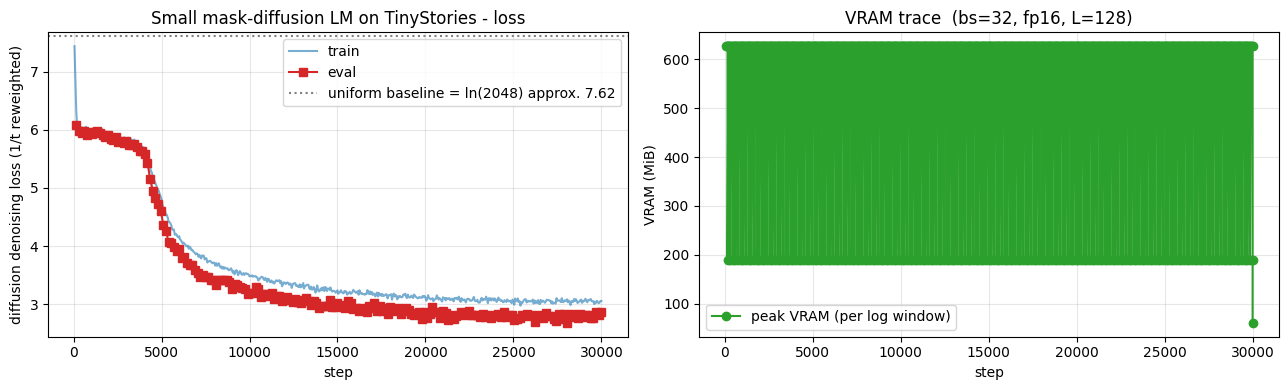
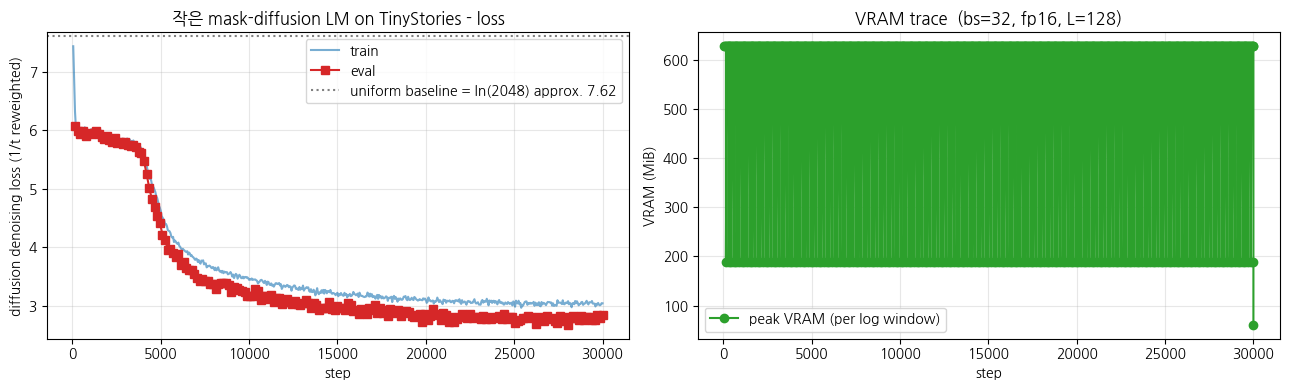
Ch 32 WikiDocs 변환 — executed 한글 plot 재생성
Claude-Session: https://claude.ai/code/session_01WacYaM89hZLnSLh4o6sjrA

diff --git a/pages/32-diffusion_intro-practice.md b/pages/32-diffusion_intro-practice.md
@@ -9,13 +9,14 @@
 **▶ 실행 결과**
 
 ```text
-   ━━━━━━━━━━━━━━━━━━━━━━━━━━━━━━━━━━━━━━━━ 11.2/11.2 MB 118.2 MB/s eta 0:00:00
-   ━━━━━━━━━━━━━━━━━━━━━━━━━━━━━━━━━━━━━━━━ 555.1/555.1 kB 48.3 MB/s eta 0:00:00
-   ━━━━━━━━━━━━━━━━━━━━━━━━━━━━━━━━━━━━━━━━ 389.2/389.2 kB 39.2 MB/s eta 0:00:00
-   ━━━━━━━━━━━━━━━━━━━━━━━━━━━━╺━━━━━━━━━━━ 34.4/48.9 MB 261.0 MB/s eta 0:00:01
-   ━━━━━━━━━━━━━━━━━━━━━━━━━━━━━━━━━━━━━━━╸ 48.9/48.9 MB 148.9 MB/s eta 0:00:01
-   ━━━━━━━━━━━━━━━━━━━━━━━━━━━━━━━━━━━━━━━╸ 48.9/48.9 MB 148.9 MB/s eta 0:00:01
-   ━━━━━━━━━━━━━━━━━━━━━━━━━━━━━━━━━━━━━━━━ 48.9/48.9 MB 16.8 MB/s eta 0:00:00
+   ━━━━━━━━━━━━━━━━━━━━━━━━━━━━━━━━━━━━━━━━ 11.2/11.2 MB 104.2 MB/s eta 0:00:00
+   ━━━━━━━━━━━━━━━━━━━━━━━━━━━━━━━━━━━━━━━━ 555.1/555.1 kB 47.1 MB/s eta 0:00:00
+   ━━━━━━━━━━━━━━━━━━━━━━━━━━━━━━━━━━━━━━━━ 389.2/389.2 kB 39.4 MB/s eta 0:00:00
+   ━━━━━━╺━━━━━━━━━━━━━━━━━━━━━━━━━━━━━━━━━ 7.5/48.9 MB 226.8 MB/s eta 0:00:01
+   ━━━━━━━━━━━━━━━━━━━━━━━━━━━━━━━━━━╸━━━━━ 42.8/48.9 MB 172.2 MB/s eta 0:00:01
+   ━━━━━━━━━━━━━━━━━━━━━━━━━━━━━━━━━━━━━━━╸ 48.9/48.9 MB 160.7 MB/s eta 0:00:01
+   ━━━━━━━━━━━━━━━━━━━━━━━━━━━━━━━━━━━━━━━╸ 48.9/48.9 MB 160.7 MB/s eta 0:00:01
+   ━━━━━━━━━━━━━━━━━━━━━━━━━━━━━━━━━━━━━━━━ 48.9/48.9 MB 17.5 MB/s eta 0:00:00
 ```
 
 ```python
@@ -59,6 +60,15 @@ random.seed(SEED)
 # fp16 은 CUDA 에서만 (MPS 는 미지원, CPU 는 의미 없음)
 USE_FP16 = (device.type == "cuda")
 print(f"use fp16   : {USE_FP16}")
+
+# matplotlib 한글 폰트 (Colab — NanumGothic). plot 의 한국어가 □ 로 깨지지 않게.
+import matplotlib.pyplot as plt, matplotlib.font_manager as fm, subprocess, os
+_fp = "/usr/share/fonts/truetype/nanum/NanumGothic.ttf"
+if not os.path.exists(_fp):
+    subprocess.run("apt-get -qq -y install fonts-nanum", shell=True)
+fm.fontManager.addfont(_fp)
+plt.rcParams["font.family"] = "NanumGothic"
+plt.rcParams["axes.unicode_minus"] = False
 ```
 
 **▶ 실행 결과**
@@ -455,9 +465,9 @@ if torch.cuda.is_available():
 ```text
 <IPython.core.display.HTML object>
 === training summary ===
-elapsed       : 18.92 min
+elapsed       : 18.36 min
 global_step   : 30000
-train_loss    : 3.7148
+train_loss    : 3.6868
 random baseline (ln vocab): 7.6246
 final peak    : 61 MiB
 ```
@@ -478,7 +488,7 @@ if eval_pts:
 ax1.axhline(math.log(tokenizer.vocab_size), ls=":", color="gray",
             label=f"uniform baseline = ln({tokenizer.vocab_size}) approx. {math.log(tokenizer.vocab_size):.2f}")
 ax1.set_xlabel("step"); ax1.set_ylabel("diffusion denoising loss (1/t reweighted)")
-ax1.set_title("Small mask-diffusion LM on TinyStories - loss")
+ax1.set_title("작은 mask-diffusion LM on TinyStories - loss")
 ax1.grid(True, alpha=0.3); ax1.legend()
 
 if vram_cb.steps:
@@ -486,9 +496,9 @@ if vram_cb.steps:
              label="peak VRAM (per log window)")
     ax2.set_title(f"VRAM trace  (bs=32, fp16, L={BLOCK_SIZE})")
 else:
-    ax2.text(0.5, 0.5, "VRAM trace available on CUDA only",
+    ax2.text(0.5, 0.5, "VRAM trace 는 CUDA 에서만 제공",
              ha="center", va="center", transform=ax2.transAxes)
-    ax2.set_title("VRAM trace - CUDA only")
+    ax2.set_title("VRAM trace - CUDA 에서만")
 ax2.set_xlabel("step"); ax2.set_ylabel("VRAM (MiB)")
 ax2.grid(True, alpha=0.3); ax2.legend()
 
@@ -516,19 +526,17 @@ for i in range(3):
 TRAINED model - parallel denoise from all-[MASK]
 ======================================================================
 
-[sample 0]  Ben are twins. They run to the park. They run to slide and run. They want to reach the park. They see the big slide. They see the noise. They
+[sample 0]  and go in their house. Sam are scared. They want to play Tim and Mia. They want to climb it.
 
-They and Ben are happy. They are happy.
+"See, Sam, Sam, Sam!" Tom says.
 
-[sample 1] 
-"OK, Ben. We will play the balloon," Ben says.
+"Oh you!" Tom and Sam
+[sample 1]  him angry. He did not like the boy. He did not listen. He. He was scared and angry. He did not care.
 
-"We can play the park!" Ben says..
+The boy was very sad. He. He wanted to help the boy. He did not
 
-They run to the park. They. They seek in the park. They
-They
-[sample 2] . They understand. They are happy. They
-TheyThey see the park again. They They see the dog. They are not happy in the park. They hug their mom. They back to the park. They are very happy. They
+[sample 2] . They are good other and hug. They
+They are happy. They. They smile. They hug each other. They hug each other. They are friends.. They They are best friends. They are happy. They hug. Mom
 ```
 
 ```python
@@ -564,19 +572,18 @@ step  0/11  ([MASK] remaining: 37)
   ____ ____ ____ ____ ____ ____ ____ ____ ____ . ____ ____ ____ ____ Ġand ____ ____ ____ ____ ____ ____ ____ ____ . ____ ____ ____ ____ ____ …(뒤 55자 생략)
 
 step  3/11  ([MASK] remaining: 27)
-  Ġand ____ ____ ____ ____ ____ ____ ____ ____ . ĠThey ____ Ġto ____ Ġand ____ ____ ____ ____ ____ ____ ____ ____ . Ċ Ċ They ____ ____ Ġto Ġ …(뒤 45자 생략)
+  Ċ They Ġand ____ ____ ____ ____ ____ ____ . ĠThey Ġlikes Ġto ____ Ġand ____ ____ ____ ____ ____ ____ ____ ____ . ĠThey ____ ____ ____ ____ …(뒤 53자 생략)
 
 step  6/11  ([MASK] remaining: 17)
-  Ġand ____ . . ĠThey ____ ____ Ġthe ____ . ĠThey ____ Ġto ____ Ġand ____ . . ĠThey ____ ____ ____ ____ . Ċ Ċ They ____ Ġback Ġto Ġthe Ġand …(뒤 37자 생략)
+  Ċ They Ġand ____ . ĠThey ____ ____ ____ . ĠThey Ġlikes Ġto Ġplay Ġand Ġplay . . ĠThey ____ ____ ____ ____ . ĠThey ____ ____ ____ ____ . __ …(뒤 43자 생략)
 
 step  9/11  ([MASK] remaining:  7)
-  Ġand ____ . . ĠThey Ġrun Ġto Ġthe Ġpark . ĠThey ____ Ġto ____ Ġand Ġrun . . ĠThey ____ ____ Ġand Ġfun . Ċ Ċ They Ġgo Ġback Ġto Ġthe Ġand _ …(뒤 36자 생략)
+  Ċ They Ġand Ġsmile . ĠThey ____ ____ ____ . ĠThey Ġlikes Ġto Ġplay Ġand Ġplay . . ĠThey ____ ____ Ġand Ġball . ĠThey Ġrun Ġafter Ġthe Ġbal …(뒤 54자 생략)
 
 step 11/11  ([MASK] remaining:  0)
-  Ġand Ġrun . . ĠThey Ġrun Ġto Ġthe Ġpark . ĠThey Ġwant Ġto Ġswing Ġand Ġrun . . ĠThey Ġhave Ġfun Ġand Ġfun . Ċ Ċ They Ġgo Ġback Ġto Ġthe Ġa …(뒤 43자 생략)
+  Ċ They Ġand Ġsmile . ĠThey Ġplay Ġtogether Ġit . ĠThey Ġlikes Ġto Ġplay Ġand Ġplay . . ĠThey Ġmake Ġball Ġand Ġball . ĠThey Ġrun Ġafter Ġt …(뒤 62자 생략)
 
 ==============================================================================
-FINAL:  and run.. They run to the park. They want to swing and run.. They have fun and fun.
-
-They go back to the and slide. They say they are to stop
+FINAL: 
+They and smile. They play together it. They likes to play and play.. They make ball and ball. They run after the ball. Spot and hug. They are good friends. They
 ```

diff --git a/pages/32-diffusion_intro-variation.md b/pages/32-diffusion_intro-variation.md
@@ -20,9 +20,10 @@ for i in range(3):
 prompt (fixed): Once upon a time
 ======================================================================
 
-[sample 0]  Once upon a time, there was a little girl named Lily. She loved to play outside and her moms. Lily. One day, Lily's to play with …(뒤 57자 생략)
-[sample 1]  Once upon a time, there was a little girl named Lilyie. She loved to wear her her favorite dress. One day, she went to the park …(뒤 83자 생략)
-[sample 2]  Once upon a time, there was a little girl named Lily. She loved to share her toys and play with her friends. One day, she went t …(뒤 87자 생략)
+[sample 0]  Once upon a time, there was a little girl named Lily. She loved to play with her with her toys. One day, she went to to play wit …(뒤 74자 생략)
+[sample 1]  Once upon a time, there a a little girl named Lily. She loved to play with her toys every toys. One day, Lily went her park to p …(뒤 65자 생략)
+
+[sample 2]  Once upon a time, there was a little girl named Lily. She was very happy and loved to play with her friends. One day, Lily's fri …(뒤 81자 생략)
 ```
 
 **관전 포인트** - 앞 토큰들이 고정된 채 뒤가 채워집니다. 단, diffusion 은 *양방향* 이라 GPT 와 달리 *prompt 앞이나 중간에 빈칸* 을 두고 채우게 할 수도 있습니다 (infilling) — autoregressive 가 구조적으로 못 하는 일.
@@ -42,23 +43,24 @@ for steps in [1, 4, 16, 32]:
 **▶ 실행 결과**
 
 ```text
-[steps= 1] ." very there "
- her She to Once. said the with." and day his
+[steps= 1] ." very to "
+ her She to
+. said the with." big day his
  mom
 s! and. said a The with " on
- a, his happy very, thes to a the They He in in and it
+ a, his happy very, thes to I the They He in in and it
 
-[steps= 4] , ball!"
+[steps= 4]  and asked,. They ran to the park. Maybe the other people was gone.
 
 
-They played away. But the bird laughed and ran away.
+The end and. It was not friendly..
+Finally, the, said, the child said, the bird!" The person and Sam
+[steps=16]  and go in their house. Sam are scared. They want to play Tim and Mia. They want to climb it.
 
-The bird and. The bird to the end of the bird, the mud, the dog coming to the ground. The bird and Ben
+"See, Sam, Sam, Sam!" Tom says.
 
-[steps=16]  Ben are twins. They run to the park. They run to slide and run. They want to reach the park. They see the big slide. They see the noise. They
-
-They and Ben are happy. They are happy.
-[steps=32]  friends. They like to play hide and swing. They like Lily and friends. They like to go to the park. They like to play in the par …(뒤 67자 생략)
+"Oh you!" Tom and Sam
+[steps=32]  and eat each other. They are very happy. They are happy and happy. Lily and Ben are friends and friends. They like to the park. …(뒤 67자 생략)
 ```
 
 **관전 포인트**

diff --git a/TOC.md b/TOC.md
@@ -121,7 +121,7 @@
   * [31-1. 실습](pages/31-grpo-practice.md)
   * [31-2. 변형: group size / format reward / 코드 verifier / 다른 task](pages/31-grpo-variation.md)
   * [31-3. 정리와 FAQ](pages/31-grpo-wrapup.md)
-* [32. 작은 mask-diffusion LM 직접 만들기 — 가변 마스킹과 병렬 denoise](pages/32-diffusion_intro.md)
+* [32. 작은 Diffusion LM 입문: 병렬 Denoise 생성](pages/32-diffusion_intro.md)
   * [32-1. 실습](pages/32-diffusion_intro-practice.md)
   * [32-2. 변형: denoise step 수 비교 (속도 - 품질 trade-off)](pages/32-diffusion_intro-variation.md)
   * [32-3. 정리와 FAQ](pages/32-diffusion_intro-wrapup.md)

diff --git a/pages/32-diffusion_intro.md b/pages/32-diffusion_intro.md
@@ -273,6 +273,4 @@ BERT/GPT 챕터들과 같은 `Trainer` 패턴이지만, *loss 를 직접 정의*
 
 ## 이 장의 구성
 
-- [32-1. 실습](32-diffusion_intro-practice.md)
-- [32-2. 변형: denoise step 수 비교 (속도 - 품질 trade-off)](32-diffusion_intro-variation.md)
-- [32-3. 정리와 FAQ](32-diffusion_intro-wrapup.md)
+[[SubPages]]
